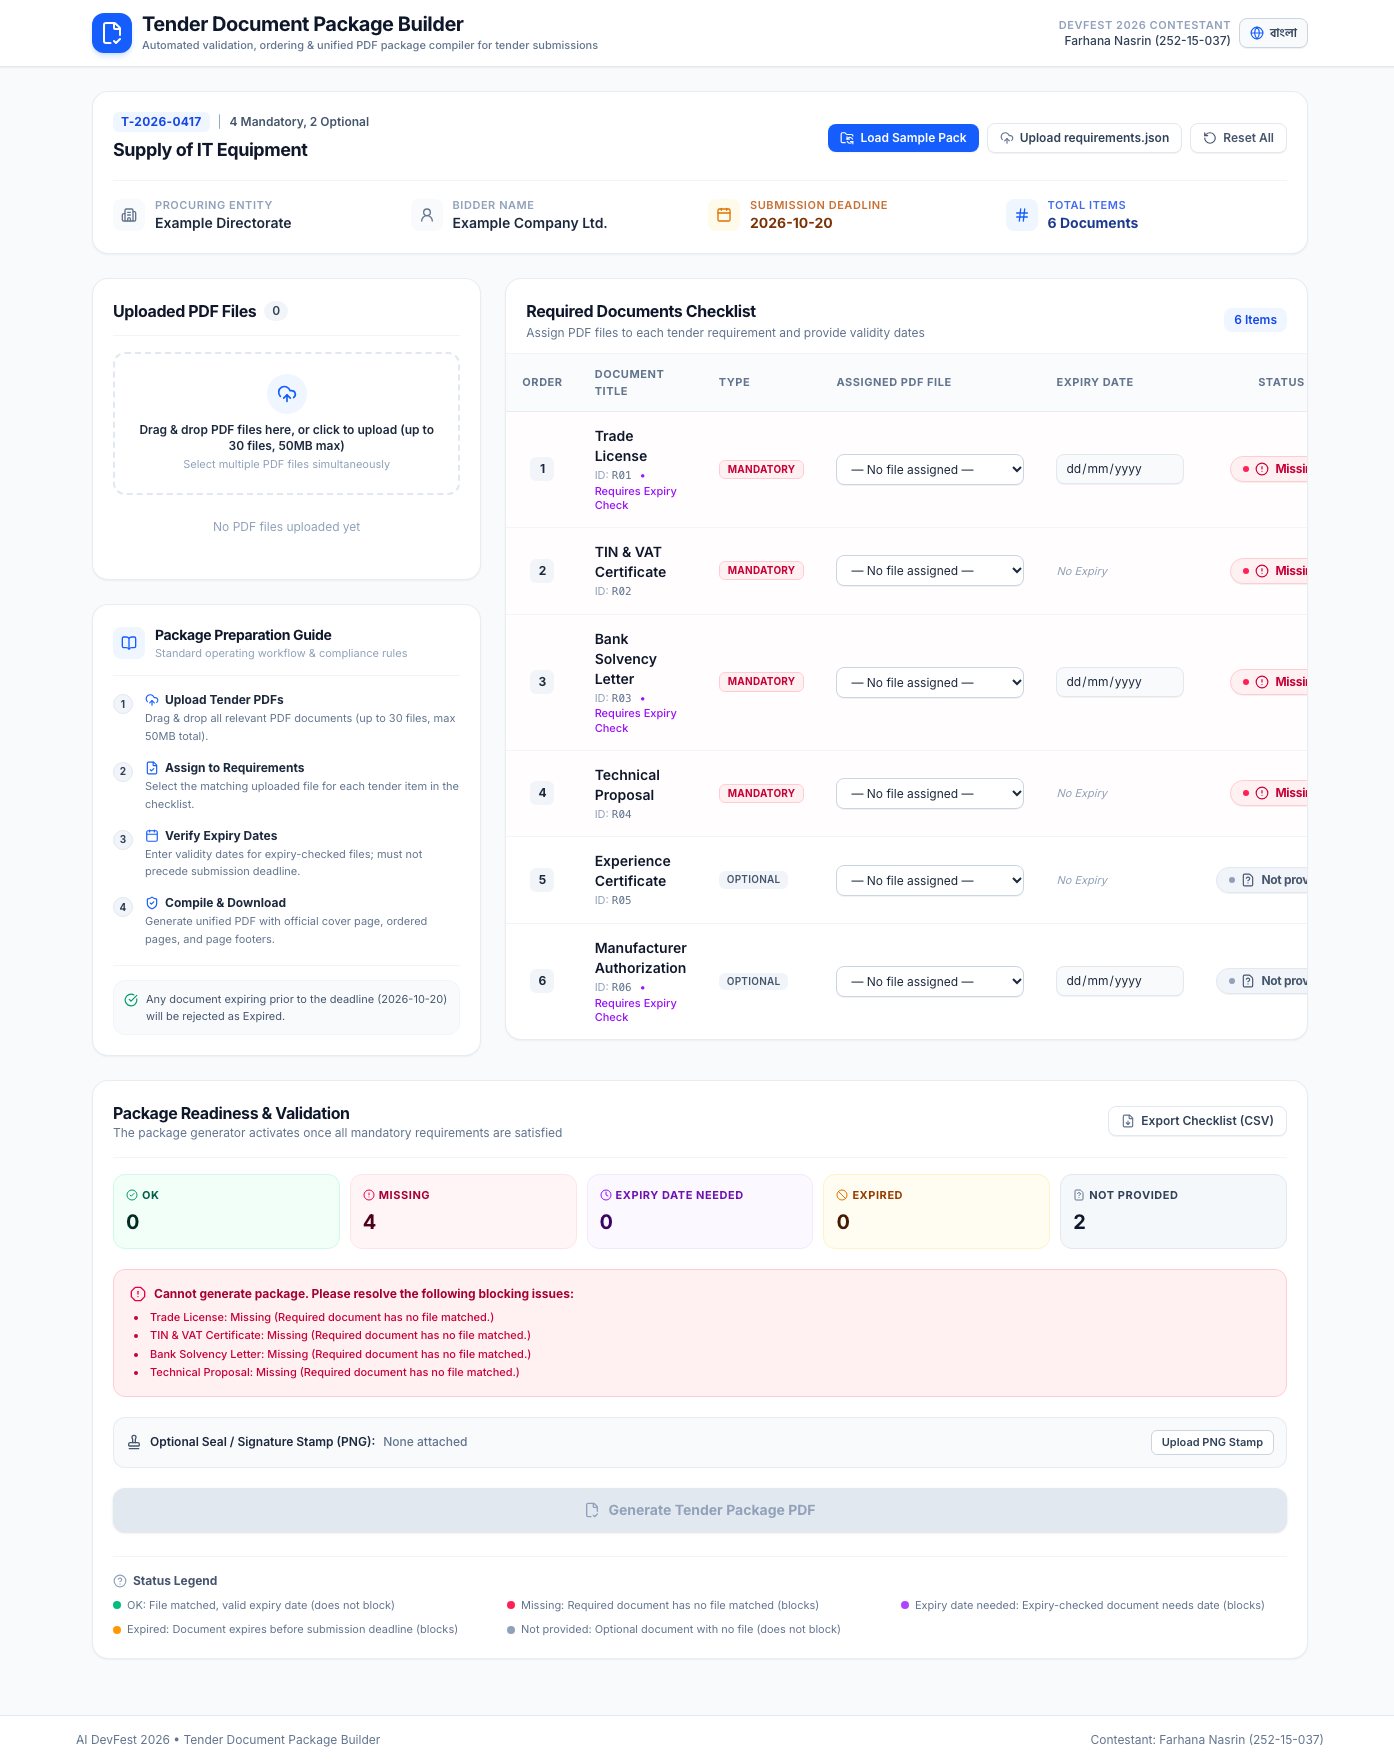
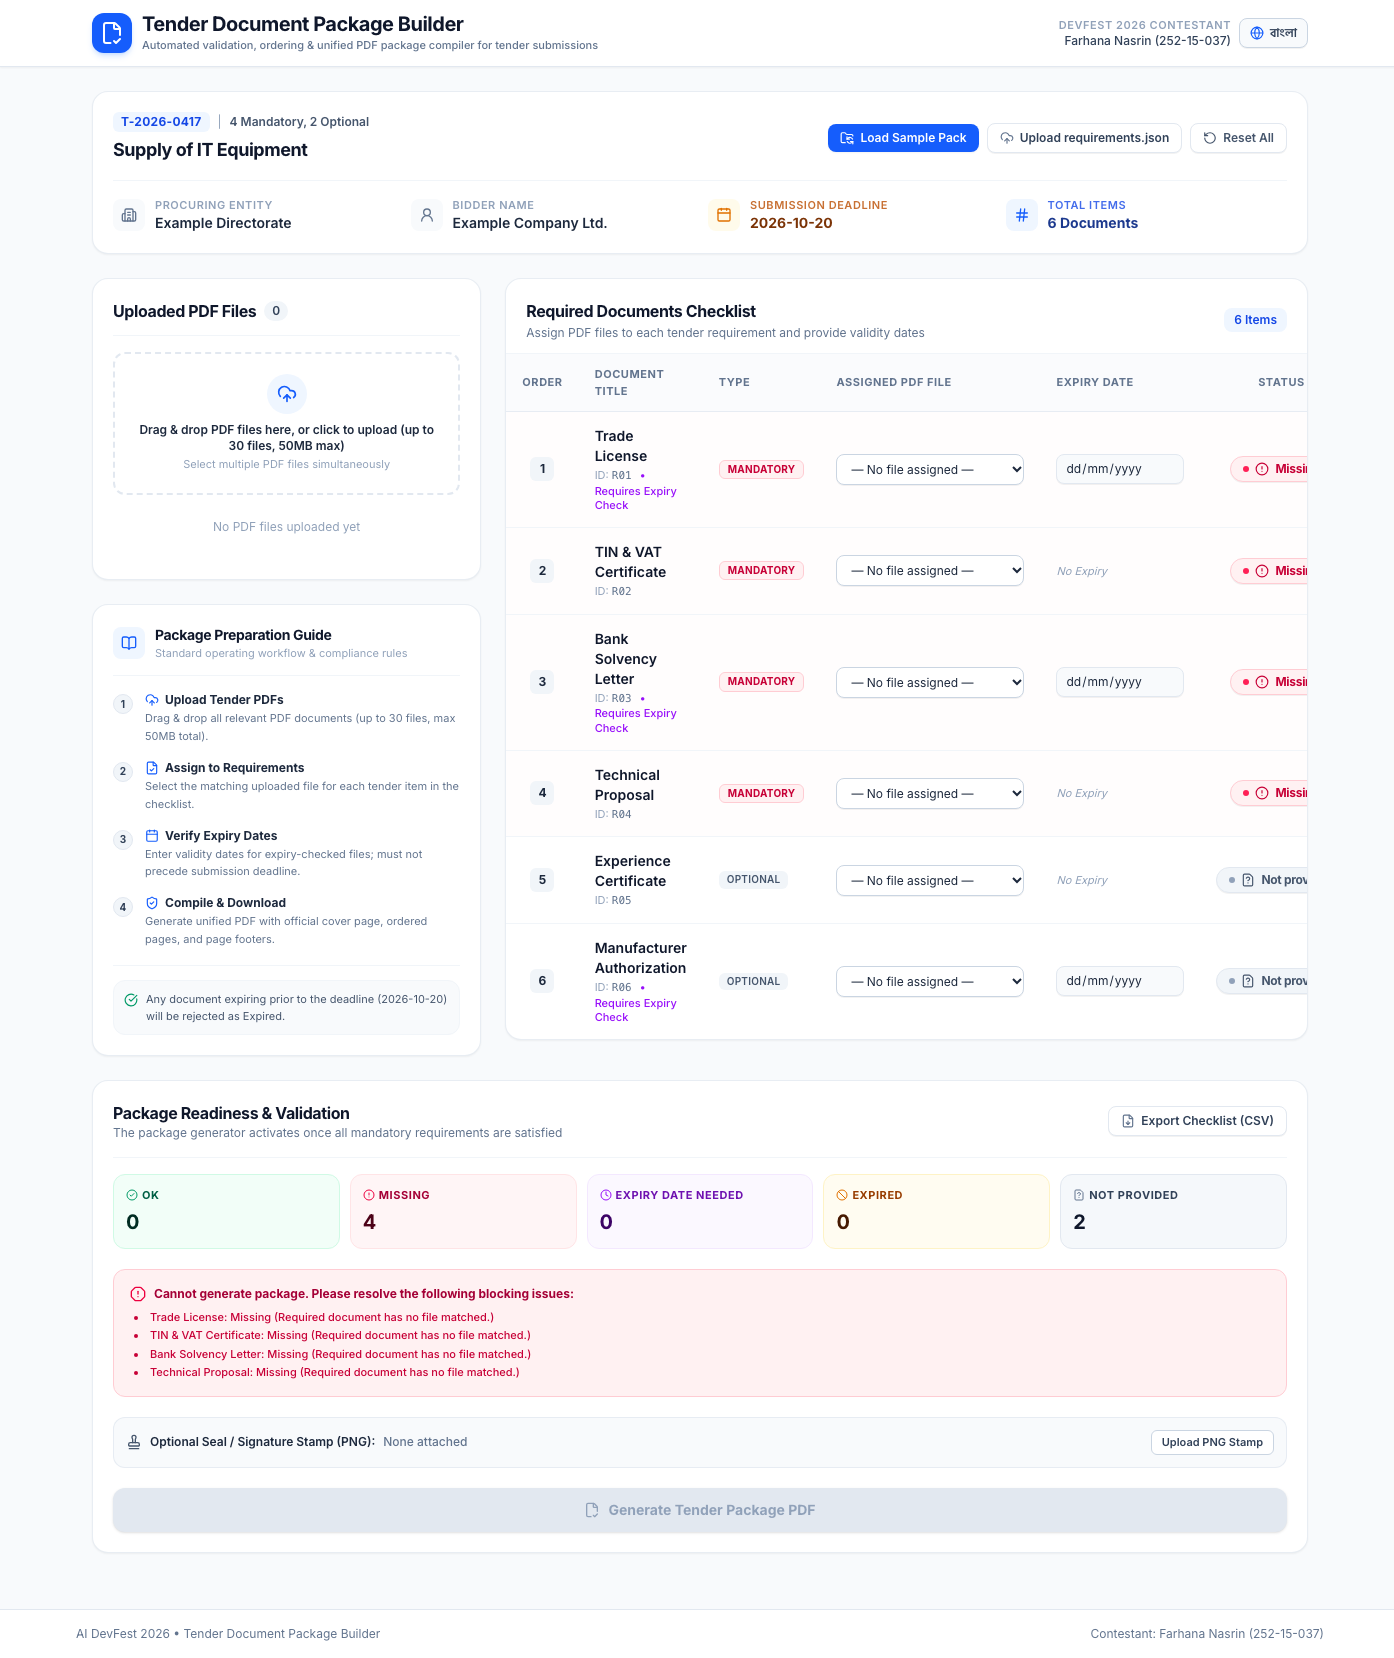
Remove Status Legend section from package actions
Prompt: "eta remove koro,,,etar dorkar nai"
Step: Remove Status Legend section from PackageActions component and update screenshots.

diff --git a/src/components/PackageActions.jsx b/src/components/PackageActions.jsx
@@ -11,7 +11,6 @@ import {
   Clock,
   Ban,
   FileQuestion,
-  HelpCircle,
   Loader2,
 } from 'lucide-react';
 import { STATUS_CODES } from '../lib/status';
@@ -231,35 +230,6 @@ export function PackageActions({
         )}
       </div>
 
-      {/* Status Legend Section */}
-      <div className="mt-6 pt-4 border-t border-slate-100">
-        <div className="flex items-center gap-1.5 text-xs font-bold text-slate-600 mb-2">
-          <HelpCircle className="w-3.5 h-3.5 text-slate-400" />
-          <span>{t.legend}</span>
-        </div>
-        <div className="grid grid-cols-1 sm:grid-cols-2 lg:grid-cols-3 gap-2 text-[11px] text-slate-500">
-          <div className="flex items-center gap-1.5">
-            <span className="w-2 h-2 rounded-full bg-emerald-500 shrink-0" />
-            <span>{t.legendOk}</span>
-          </div>
-          <div className="flex items-center gap-1.5">
-            <span className="w-2 h-2 rounded-full bg-rose-500 shrink-0" />
-            <span>{t.legendMissing}</span>
-          </div>
-          <div className="flex items-center gap-1.5">
-            <span className="w-2 h-2 rounded-full bg-purple-500 shrink-0" />
-            <span>{t.legendExpiryNeeded}</span>
-          </div>
-          <div className="flex items-center gap-1.5">
-            <span className="w-2 h-2 rounded-full bg-amber-500 shrink-0" />
-            <span>{t.legendExpired}</span>
-          </div>
-          <div className="flex items-center gap-1.5">
-            <span className="w-2 h-2 rounded-full bg-slate-400 shrink-0" />
-            <span>{t.legendNotProvided}</span>
-          </div>
-        </div>
-      </div>
     </div>
   );
 }
